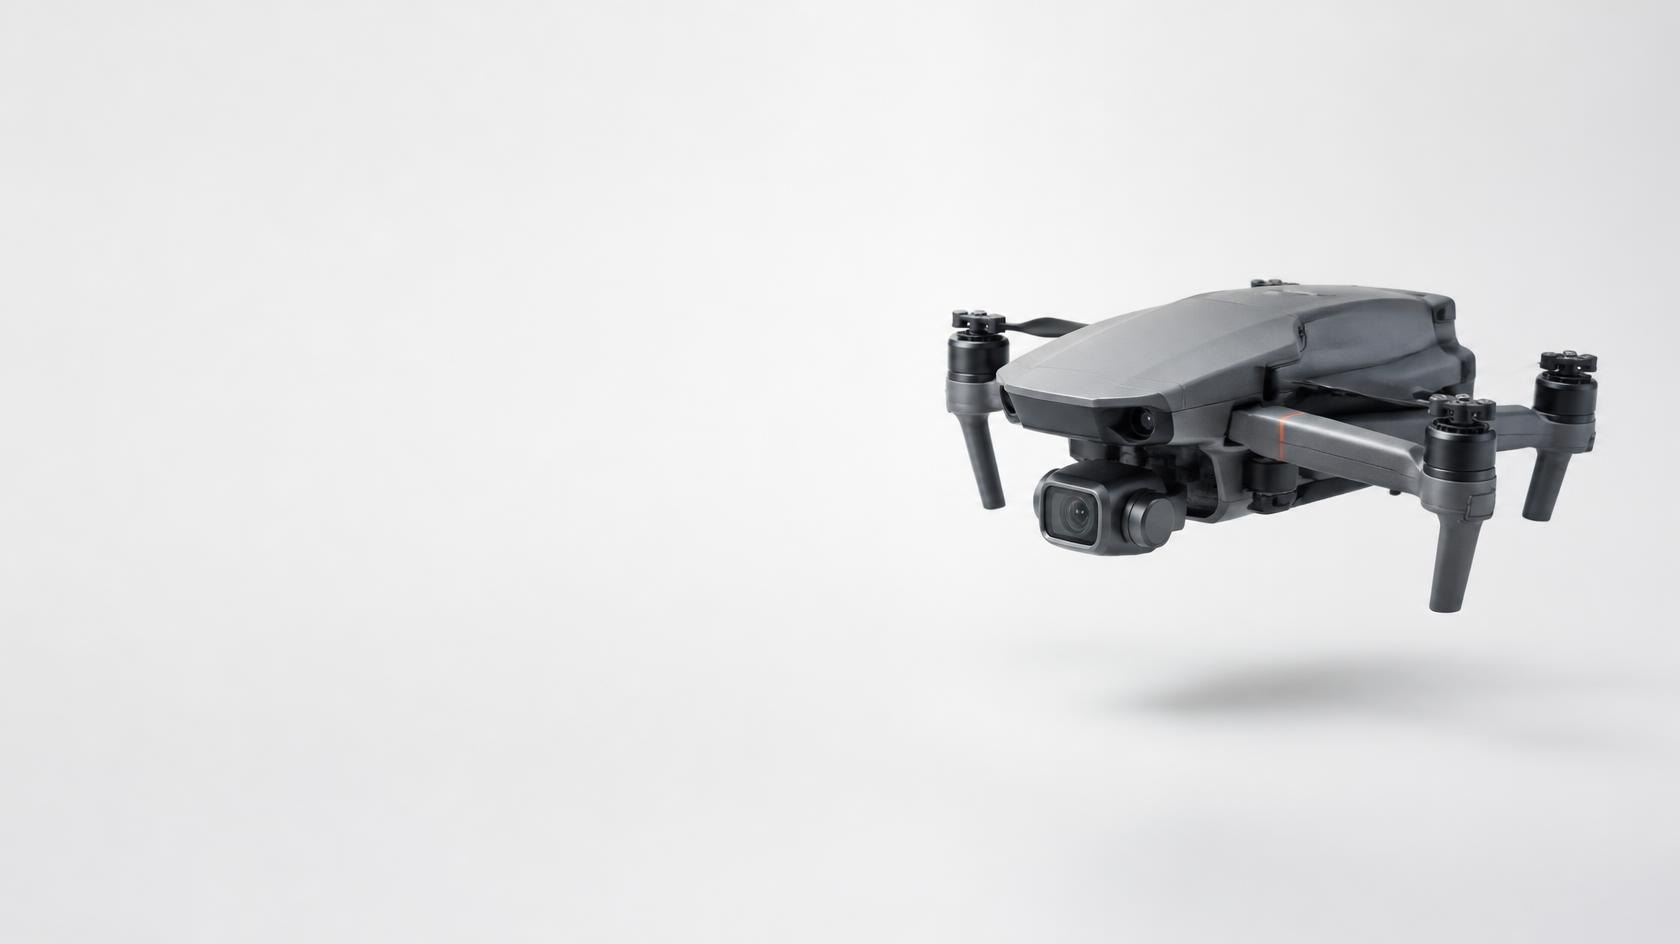
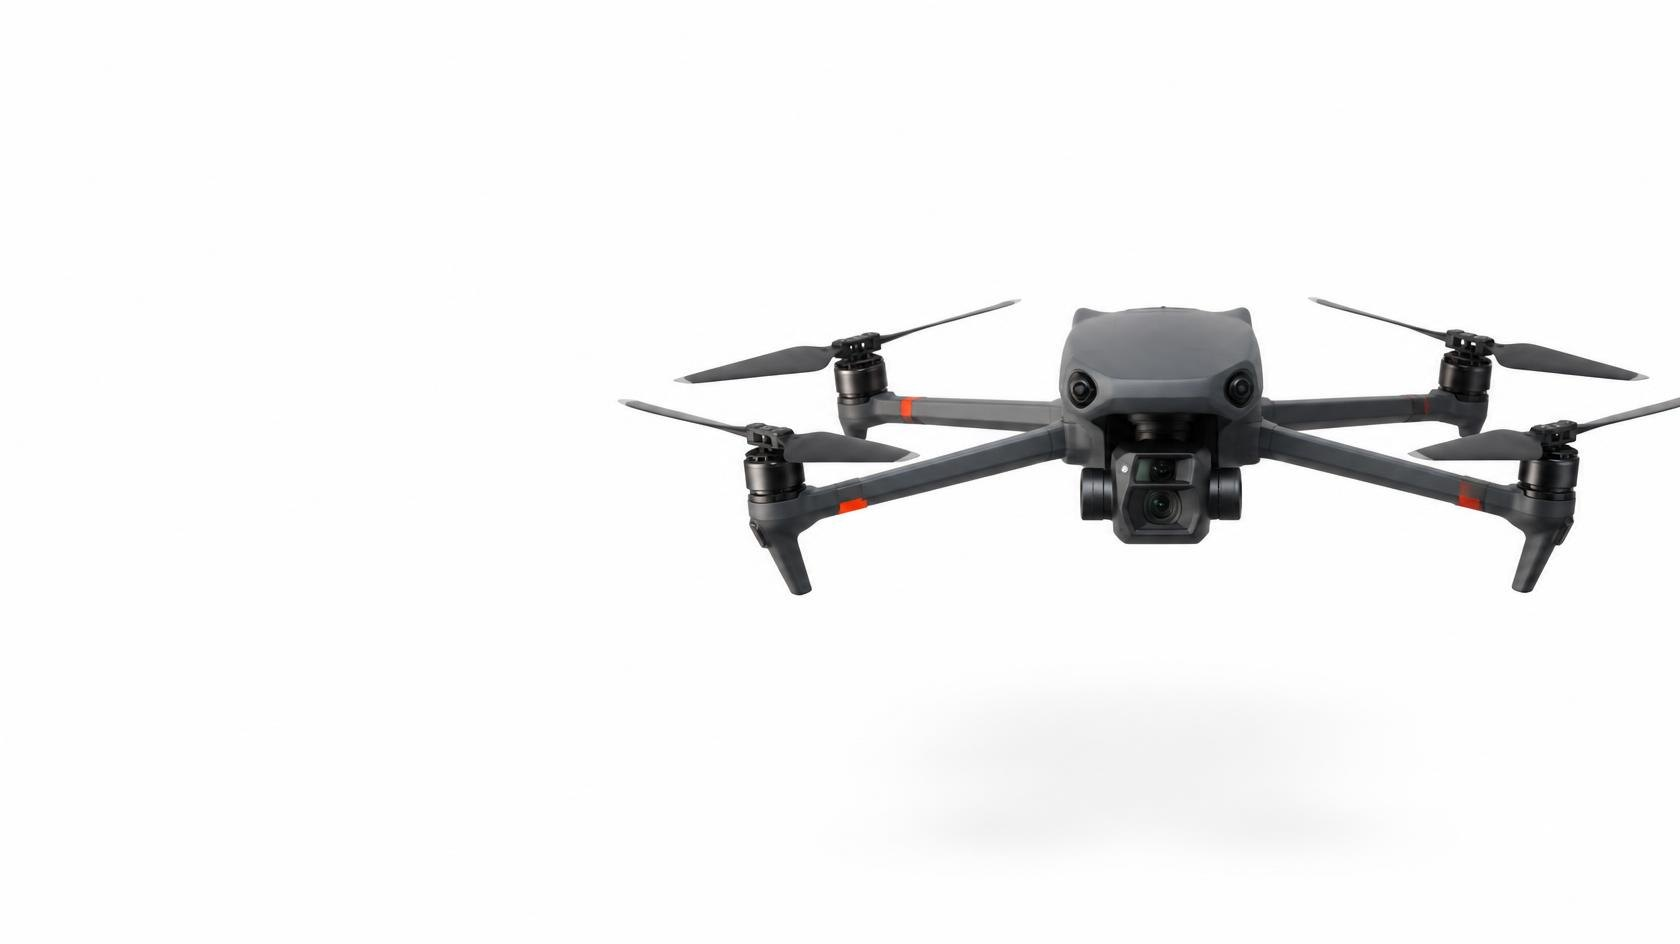
トップ画像の差し替え、数字でみるルールの変更、ファビコン追加、運用ドキュメント追加
- トップ画像を白背景・正面向きのドローン写真に差し替え、画面右側に寄せて表示
- 数字でみるルールを 100g／150m／夜間飛行 に変更（3年を削除）
- ヘッダーのマークをファビコンに設定（暗いタブでは白に切り替え）
- CLAUDE.md（サイト固有ルール）と log.md を追加し、サイトのビルド対象から除外

Changed region(s): [[0.3714, 0.0, 1.0, 1.0], [0.0, 0.7373, 0.1238, 1.0]]

diff --git a/index.html b/index.html
@@ -19,10 +19,9 @@ layout: null
 /* ===== LP専用スタイル（共通は assets/css/base.css） ===== */
 
 /* ---- hero：白いスタジオ写真＋黒の太字（写真の余白に見出しを置く） ---- */
-.hero{position:relative;min-height:min(78svh,740px);display:flex;align-items:center;overflow:hidden;background:#EAEAEA;color:#000}
-.hero-media{position:absolute;inset:0}
-.hero-media img{width:100%;height:100%;object-fit:cover;object-position:72% 50%;display:block}
-.hero-media::after{content:"";position:absolute;inset:0;background:linear-gradient(90deg,rgba(240,240,240,.7) 0%,rgba(240,240,240,.35) 34%,rgba(240,240,240,0) 56%)}
+.hero{position:relative;min-height:min(78svh,740px);display:flex;align-items:center;overflow:hidden;background:#FEFEFE;color:#000;border-bottom:1px solid var(--rule)}
+.hero-media{position:absolute;top:0;bottom:0;right:0;width:min(64%,1100px)}
+.hero-media img{width:100%;height:100%;object-fit:contain;object-position:100% 50%;display:block}
 .hero-inner{position:relative;z-index:2;width:100%;max-width:var(--wrap);margin:0 auto;padding:96px 32px}
 .hero-card{max-width:600px}
 .hero-kicker{font-weight:700;font-size:16px;letter-spacing:.04em;color:var(--ink-2)}
@@ -38,12 +37,11 @@ layout: null
 .hero-card>*:nth-child(4){animation-delay:.24s}
 .hero-card>*:nth-child(5){animation-delay:.32s}
 @keyframes rise{from{opacity:0;transform:translateY(18px)}}
-@media (max-width:1180px) and (min-width:761px){.hero-media img{object-position:92% 50%}.hero-card{max-width:500px}.hero h1{font-size:clamp(34px,4.6vw,52px)}.hero .lead{max-width:22em}}
+@media (max-width:1180px) and (min-width:761px){.hero-media{width:62%}.hero-card{max-width:500px}.hero h1{font-size:clamp(34px,4.6vw,52px)}.hero .lead{max-width:22em}}
 @media (max-width:760px){
   .hero{display:block;min-height:0;background:#fff}
-  .hero-media{position:relative;aspect-ratio:3/2;background:#EAEAEA}
-  .hero-media img{object-position:100% 50%}
-  .hero-media::after{display:none}
+  .hero-media{position:relative;width:100%;aspect-ratio:3/2;background:#FEFEFE}
+  .hero-media img{object-fit:cover;object-position:100% 50%}
   .hero-inner{padding:32px 20px 56px}
   .hero-kicker{font-size:14px}
   .hero h1{font-size:clamp(30px,9vw,40px);margin:12px 0 16px}
@@ -59,6 +57,7 @@ layout: null
 .num+.num{padding-left:32px}
 .num:last-child{border-right:none}
 .num b{display:block;font-family:var(--f-en);font-weight:600;font-size:clamp(56px,7.4vw,100px);line-height:1;letter-spacing:-.03em;color:var(--signal)}
+.num b.word{display:flex;align-items:flex-end;height:clamp(56px,7.4vw,100px);font-family:var(--f-head);font-weight:900;font-size:clamp(38px,4.8vw,64px);letter-spacing:.01em;line-height:1}
 .num b span{font-size:.42em;letter-spacing:0;margin-left:4px;font-family:var(--f-head);font-weight:900}
 .num h3{font-size:17px;margin:22px 0 8px}
 .num p{font-size:14.5px;color:var(--ink-2);line-height:1.9}
@@ -67,6 +66,7 @@ layout: null
   .num,.num+.num{display:grid;grid-template-columns:140px 1fr;column-gap:18px;align-items:start;padding:26px 0;border-right:none}
   .num+.num{border-top:1px solid var(--rule)}
   .num b{grid-row:1 / span 2;font-size:52px}
+  .num b.word{display:block;height:auto;font-size:30px;line-height:1.3;padding-top:10px}
   .num h3{margin:4px 0 6px}
 }
 .checks{margin-top:72px;display:grid;gap:0;border-top:1px solid var(--rule)}
@@ -170,7 +170,7 @@ layout: null
     <div class="hero-media">
       <picture>
         <source type="image/webp" srcset="{{ '/assets/img/hero-drone.webp' | relative_url }}">
-        <img src="{{ '/assets/img/hero-drone.jpg' | relative_url }}" alt="白い背景の中に浮かぶ、ダークグレーの小型ドローン" width="1680" height="944" fetchpriority="high">
+        <img src="{{ '/assets/img/hero-drone.jpg' | relative_url }}" alt="白い背景の中で、正面を向いて浮かぶダークグレーのドローン" width="1680" height="944" fetchpriority="high">
       </picture>
     </div>
     <div class="hero-inner">
@@ -201,22 +201,23 @@ layout: null
         <p><span class="ln">初心者がつまずくのは、<wbr>ほぼ<wbr>この3つ。</span><span class="ln">知らずに<wbr>飛ばすと<wbr>違反になることがあります。</span></p>
       </div>
 
-      <div class="numbers" aria-label="数字でみるドローンのルール">
+      <div class="numbers" aria-label="ひと目でわかるドローンのルール">
         <div class="num">
           <b>100<span>g</span></b>
           <h3>登録が必要になる重さ</h3>
           <p>本体＋バッテリーで<wbr>100g以上の<wbr>機体は、<wbr>国への<wbr>登録が<wbr>義務です。</p>
         </div>
         <div class="num">
-          <b>3<span>年</span></b>
-          <h3>登録の有効期間</h3>
-          <p>期限が<wbr>切れると、<wbr>更新するまで<wbr>屋外では<wbr>飛ばせません。</p>
-        </div>
-        <div class="num">
           <b>150<span>m</span></b>
           <h3>許可なく飛ばせる高さ</h3>
           <p>地表から<wbr>150m以上の<wbr>空域で<wbr>飛ばすには、<wbr>許可が<wbr>必要です。</p>
         </div>
+        <div class="num">
+          <b class="word">夜間飛行</b>
+          <h3>承認が必要な飛ばし方</h3>
+          <p>日没後から<wbr>日の出前までの<wbr>飛行には、<wbr>国の<wbr>承認が<wbr>必要です。</p>
+        </div>
+      </div>
       </div>
 
       <div class="checks">

diff --git a/_includes/head-common.html b/_includes/head-common.html
@@ -1,3 +1,6 @@
+<link rel="icon" href="{{ '/favicon.ico' | relative_url }}" sizes="any">
+<link rel="icon" href="{{ '/favicon.svg' | relative_url }}" type="image/svg+xml">
+<link rel="apple-touch-icon" href="{{ '/assets/img/icons/apple-touch-icon.png' | relative_url }}">
 <link rel="preconnect" href="https://fonts.googleapis.com">
 <link rel="preconnect" href="https://fonts.gstatic.com" crossorigin>
 <link rel="stylesheet" href="https://fonts.googleapis.com/css2?family=Zen+Kaku+Gothic+New:wght@500;700;900&family=Outfit:wght@500;600&display=swap">

diff --git a/CLAUDE.md b/CLAUDE.md
@@ -1,0 +1,30 @@
+# ドローン友の会 サイト固有ルール
+
+> 共通ルールは ~/.claude/CLAUDE.md。詳しい編集方法は README.md。
+
+## 公開の仕組み
+- GitHub Pages（Jekyll）。`main` にプッシュすると1〜2分で https://koheimizoguchi.github.io/drone-tomonokai/ に公開される
+- リポジトリは公開（public）。コミットした内容はすべて誰でも見られる
+- 手元に Ruby / Jekyll はない。見た目の確認は、確認用ページを一時フォルダに作り、ヘッドレスEdgeでパソコン幅・スマホ幅のスクリーンショットを撮って行う
+
+## Liquid（テンプレート）の注意
+- 条件式に括弧は使えない
+- `== blank` / `!= blank` はGitHub Pagesで期待どおり動かなかった。空文字の判定は `| size` で長さを見る
+- `.md` や `.html` は front matter がなくても公開される。公開したくないファイルは `_config.yml` の `exclude` に入れる
+
+## 内容のルール
+- サイトの目的: ①ドローン初心者への情報提供 ②公式LINE登録（主な目標） ③楽天ROOMのアフィリエイト ④SNSへの誘導
+- 制度の情報（航空法・機体登録など）は国土交通省などの一次情報で確認する。Claudeが書いた文章は公開前にユーザー確認
+- 楽天ROOMのリンクには「PR」表記と広告である旨の注記を必ず付ける（ステルスマーケティング規制）。リンクは `rel="sponsored"`
+- LINEのリンクは `_config.yml` の `line_url` で一括管理
+
+## デザインのルール
+- 白地・黒の太字ゴシック・広い余白（参考: JINS HOLDINGS）
+- 書体: Zen Kaku Gothic New（和文）＋ Outfit（英字の小見出し・数字）
+- アクセントは航空オレンジ `#FF4F00`（数字と印だけ）。緑 `#06C755` はLINEボタン専用
+- 見出しは「英字の小見出し＋和文の大見出し」、一覧は上に太い黒線・行間に細い線
+- アニメーションはヒーローの登場だけ
+
+## 画像
+- トップ画像: `assets/img/hero-drone.webp` / `.jpg`（Canvaで生成。元データはCanvaの「すべてのプロジェクト」）
+- ロゴ書き出し: `D:\Claude\logo-export\`（リポジトリ外）

diff --git a/log.md b/log.md
@@ -1,0 +1,36 @@
+# 作業ログ
+
+## 2026-09-30 トップ画像の差し替え、「数字でみるルール」の変更、ファビコン追加、CLAUDE.md作成
+
+**変更ファイル**
+- `assets/img/hero-drone.webp`, `assets/img/hero-drone.jpg`
+- `index.html`
+- `favicon.svg`, `favicon.ico`, `assets/img/icons/apple-touch-icon.png`
+- `_includes/head-common.html`
+- `_config.yml`
+- `README.md`
+- `CLAUDE.md`, `log.md`（新規）
+
+**概要**
+- トップ画像を、白背景で正面を向いたダークグレーのドローンの写真に差し替え。写真を画面右側に寄せて表示
+- 「数字でみるルール」を 100g／150m／夜間飛行 の3項目に変更（3年を削除）
+- ヘッダーのマークをファビコンに設定（暗いタブでは白に切り替わるSVG）
+- CLAUDE.md（サイト固有ルール）と log.md を新規作成し、公開されないよう `_config.yml` の exclude に追加
+
+**備考**
+- ユーザーの指示でコミット・プッシュ
+- 「夜間飛行」の説明文はClaudeが作成。公開前にユーザー確認が必要
+
+## 2026-09-30 「数字でみるルール」を3項目に整理、楽天ROOM誘導の見出し変更（プッシュ済み de5bb31）
+
+**変更ファイル**
+- `index.html`, `_includes/room-banner.html`, `README.md`
+
+**概要**
+- 「30m 人や物から離す距離」を削除
+- ROOM誘導ボックスの見出しを「カテゴリごとの必須・便利アイテムなどを紹介中」に変更
+
+## 2026-09-29 サイトの初期構築〜デザイン刷新（詳細は git log を参照）
+
+**概要**
+- claude.ai のアーティファクトからGitHubへ移行、コラム機能（Jekyll）、楽天ROOM、SNS枠、トップの構成見直し、JINS風のデザイン刷新、トップ画像の差し替え

diff --git a/README.md b/README.md
@@ -134,7 +134,7 @@ GitHub のサイト上だけで投稿できます。
 - **CTAの計測**用に各ボタンへ `data-cta="hero|header|gifts|final|dock|column-header|column|column-index"` を付与しています。アクセス解析を入れる際の識別子に使えます。
 - **改行位置を固定したい文章**は `<span class="ln">…</span>`（`display:block`）で行を分けています。
 - **デザイン**：白地・黒の太字ゴシック（Zen Kaku Gothic New）・広い余白。英字の小見出しと数字は Outfit。配色は `assets/css/base.css` の `:root` で一括管理。オレンジ（`--signal`）は数字と印だけ、緑（`--line`）はLINEボタン専用です。
-- トップの見せ場は「数字でみるルール」（100g／3年／150m）。制度が変わったら `index.html` の `.numbers` を更新してください。
+- トップの見せ場は「数字でみるルール」（100g／150m／夜間飛行。登録・飛行場所・飛行方法の3つに対応）。制度が変わったら `index.html` の `.numbers` を更新してください。
 - **フォント**は Google Fonts（Zen Kaku Gothic New / Outfit）を読み込みます。
 
 ## 注意事項
